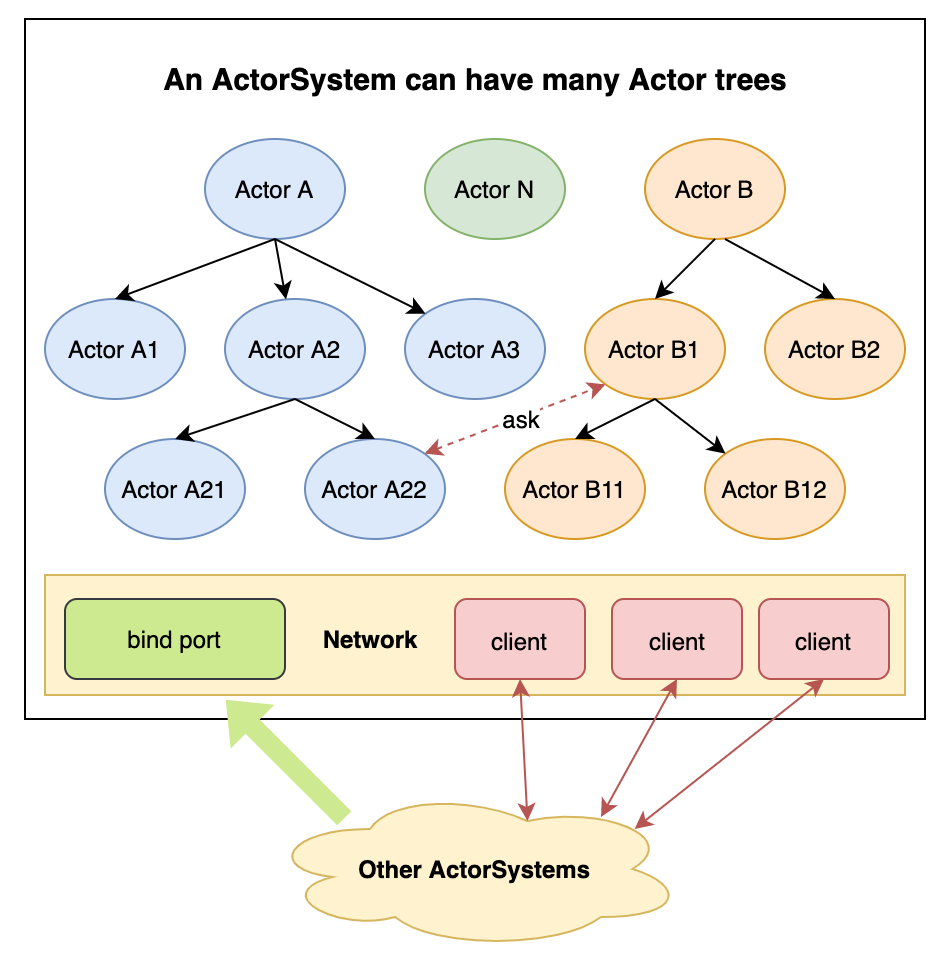
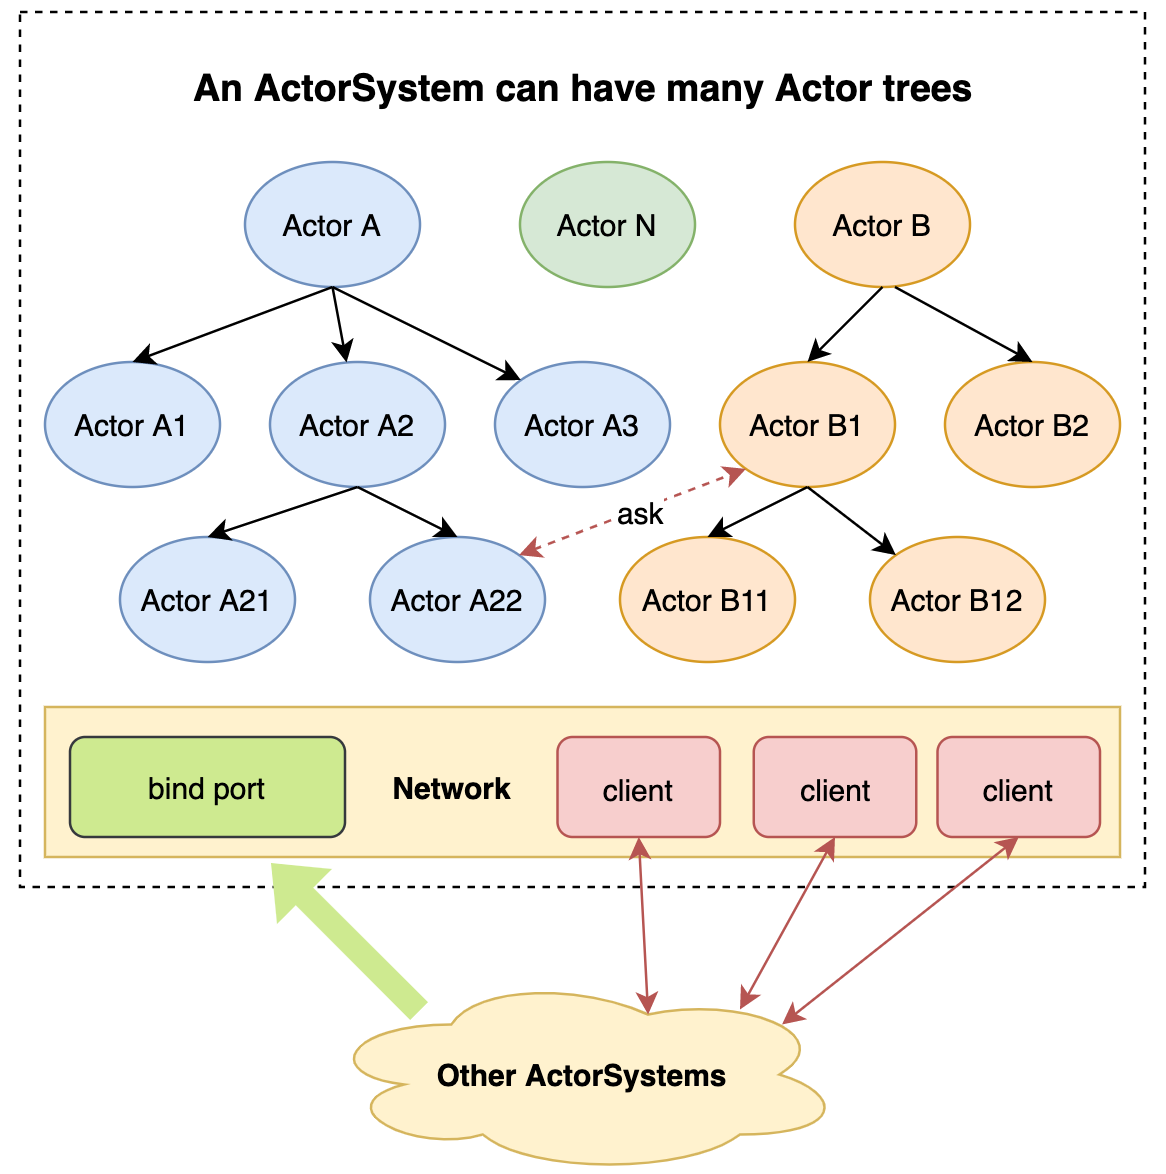
doc: update image

diff --git a/README.md b/README.md
@@ -6,7 +6,7 @@
 - 队列消除同步等待
 - 独立线程执行对消息的处理，ZIO中使用Fiber
 - 对状态的改变，封装在Actor内部；外部无法直接访问
-![how actor work](./design/how-actor-work.png)
+![how actor work](./design/actor.png)
 
 以上一个Actor的内部结构，Actor运行在ActorSystem环境中，而ActorSystem可以存在很多个（一个进程、多个进程都可以）。
 ![actor system](./design/actor-system.png)
